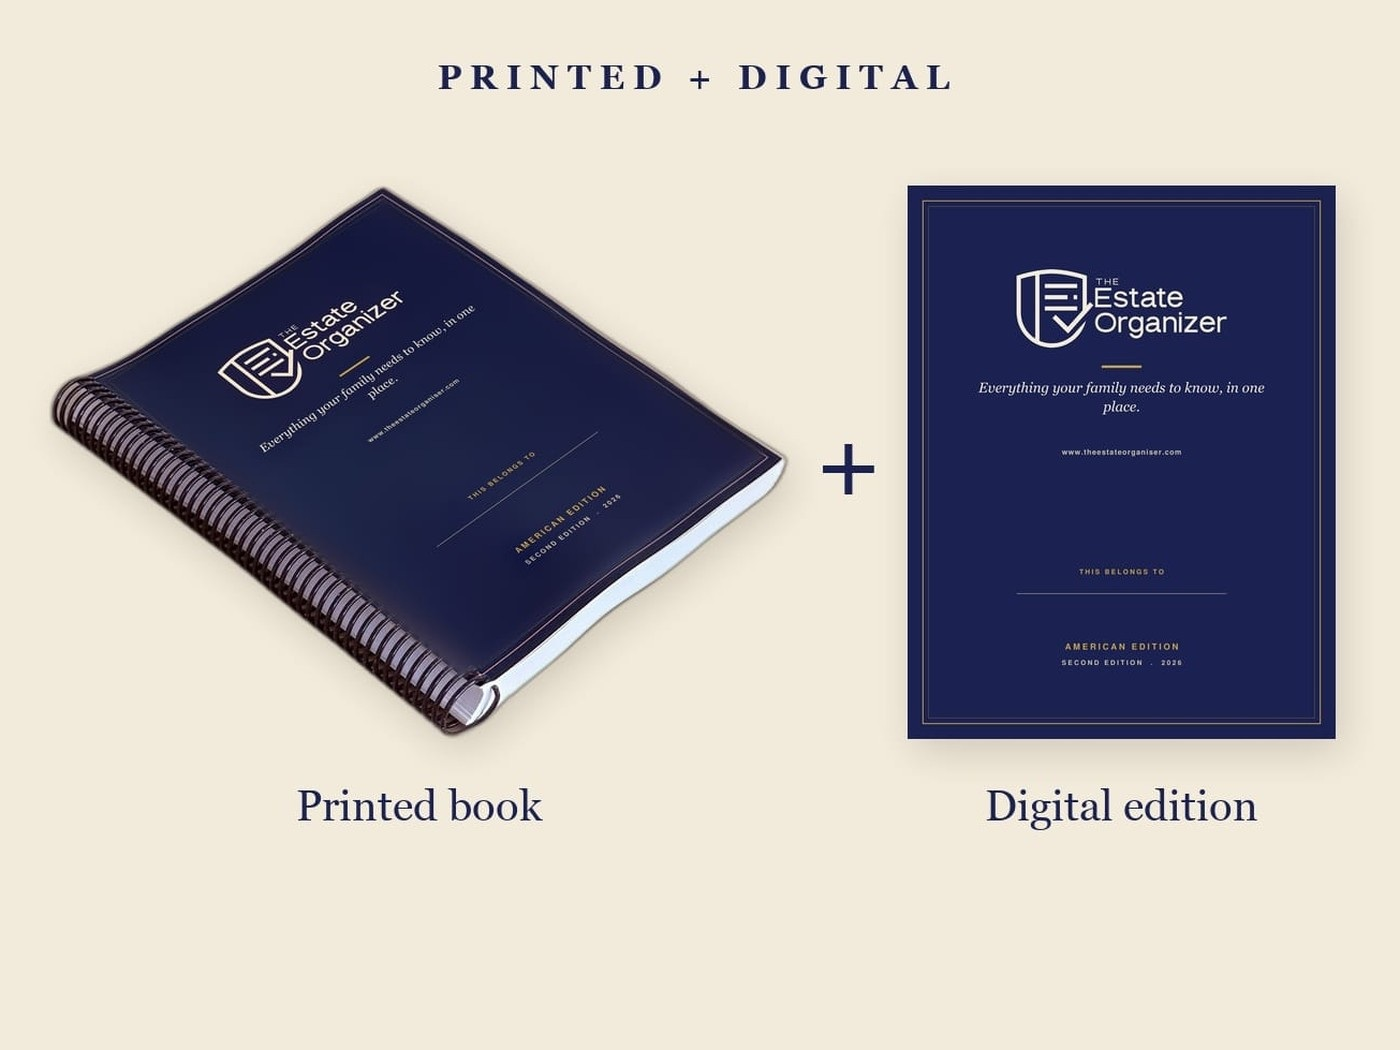
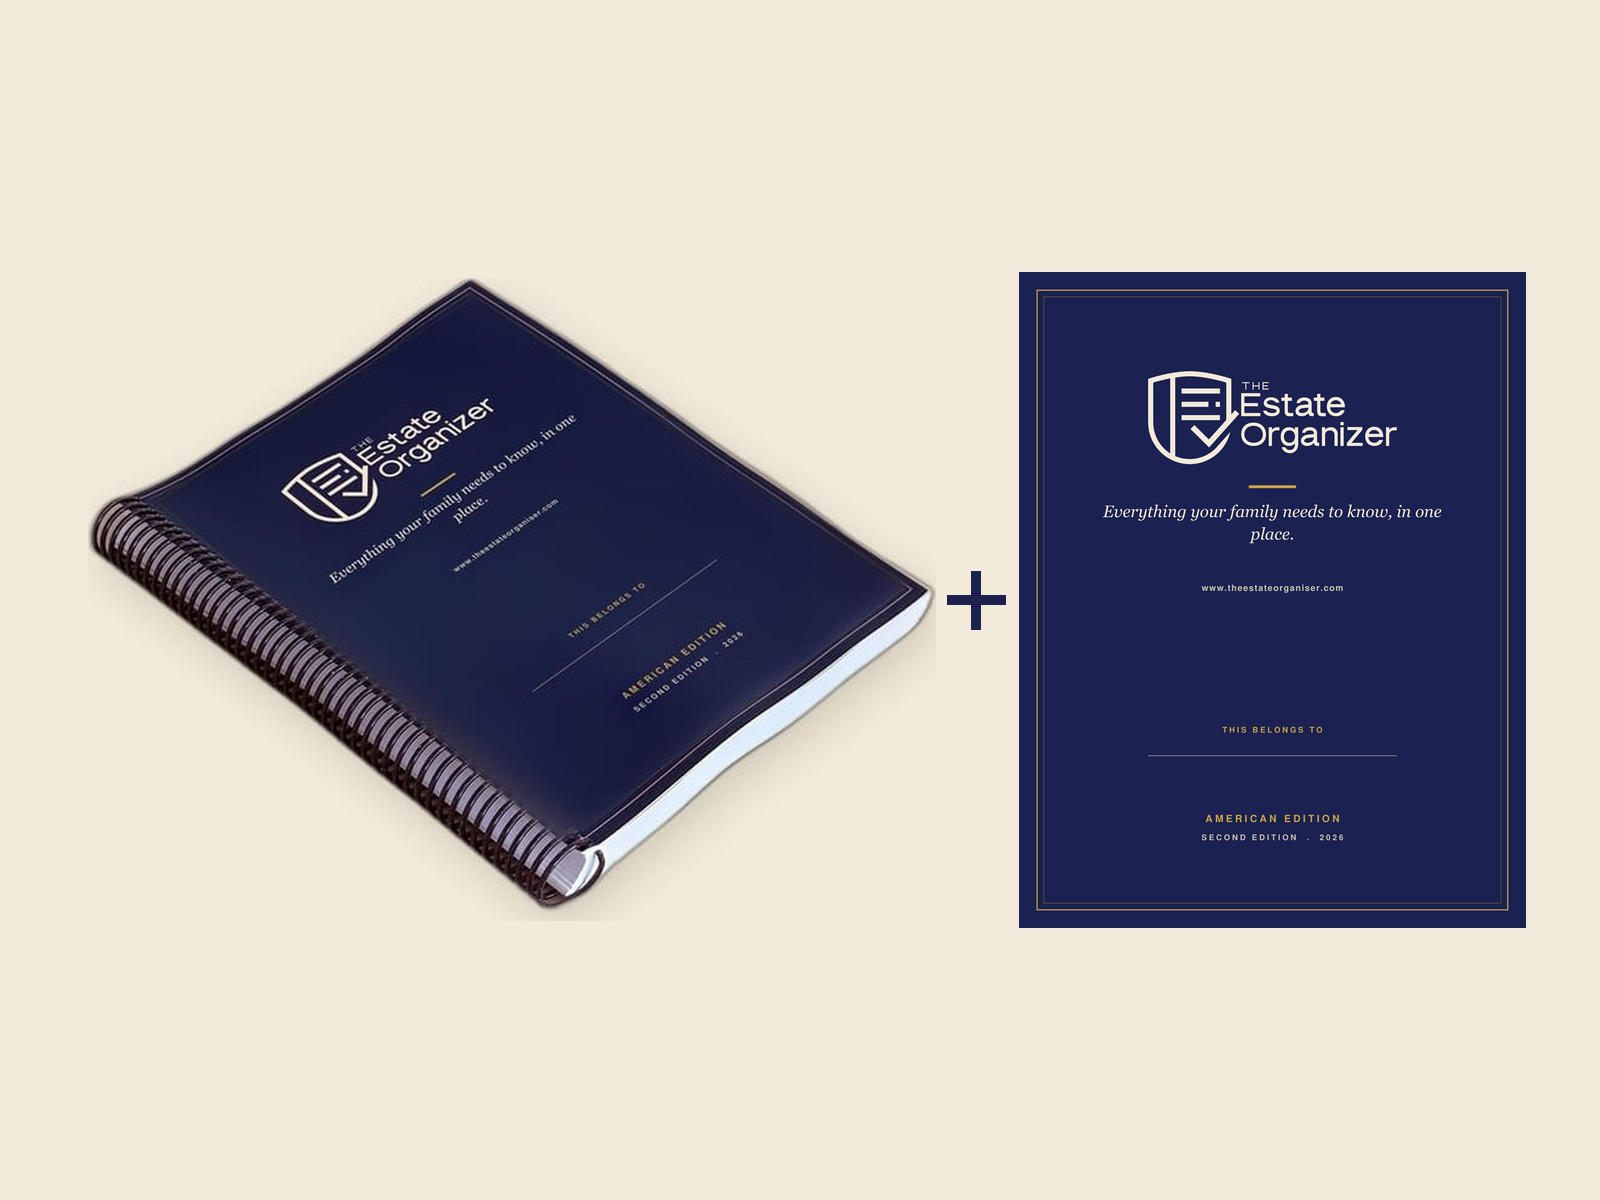
Format cards: drop the baked-in labels, rebuild from the print sources
The tier card images carried "DIGITAL ONLY", "PRINTED + DIGITAL", "Printed book"
and "Digital edition" burnt into the artwork. Drawn at 1400px and displayed at
about 341 CSS px, those letterforms landed around 10px and read as blurry. The
card already names the format underneath in HTML, so the labels are gone.

Rebuilt at 1600x1200 from the originals rather than upscaled: the cover comes off
the print cover spread PDF at 400 dpi, the coil book off the 3D render in Brand
Assets. Each site gets its own market cover. Composition and cream field are
unchanged, art vertically centred now the labels no longer take the top.

Build script: Estate Organiser/Assets/card-images/build-cards.py

diff --git a/the-estate-organizer/index.html b/the-estate-organizer/index.html
@@ -601,7 +601,7 @@ footer .disc,footer .legal{margin-top:20px;font-size:.8rem;line-height:1.6;color
     <p class="sub">Same book, same sections. Pick the format that suits how you like to work.</p>
     <div class="tiles book fmt-two" style="margin-top:34px">
       <div class="tile">
-        <img class="tileimg" src="/assets/card-digital.jpg" alt="The Estate Organizer digital edition">
+        <img class="tileimg" src="/assets/card-digital.jpg?v=2" alt="The Estate Organizer digital edition">
         <h4>Digital Edition</h4>
         <p class="t-price">$79 <span>USD</span></p>
         <p class="t-sub">Fillable PDF, instant download<br><span class="complete-tag" style="margin-top:10px">Complete on its own</span></p>
@@ -612,7 +612,7 @@ footer .disc,footer .legal{margin-top:20px;font-size:.8rem;line-height:1.6;color
         <p class="micro">Digital version only, no physical book</p>
       </div>
       <div class="tile featured">
-        <div class="tile-badge">Most people choose this</div><img class="tileimg" src="/assets/card-both.jpg" alt="The printed book and the digital edition together">
+        <div class="tile-badge">Most people choose this</div><img class="tileimg" src="/assets/card-both.jpg?v=2" alt="The printed book and the digital edition together">
         <h4>Printed + Digital</h4>
         <p class="t-price">$149 <span>USD</span></p>
         <p class="t-sub">Free shipping, digital copy instantly<br><span class="complete-tag" style="margin-top:10px">Complete on its own</span></p>

diff --git a/index.html b/index.html
@@ -456,7 +456,7 @@ footer .disc,footer .legal{margin-top:20px;font-size:.8rem;line-height:1.6;color
     </div>
     <div class="tiles book fmt-two">
       <div class="tile">
-        <img class="tileimg" src="/assets/card-digital.jpg" alt="The Estate Organizer digital edition">
+        <img class="tileimg" src="/assets/card-digital.jpg?v=2" alt="The Estate Organizer digital edition">
         <h4>Digital Edition</h4>
         <p class="t-price">$79 <span>USD</span></p>
         <p class="t-sub">Instant download</p>
@@ -467,7 +467,7 @@ footer .disc,footer .legal{margin-top:20px;font-size:.8rem;line-height:1.6;color
         <p class="micro">Digital version only, no physical book</p>
       </div>
       <div class="tile featured">
-        <div class="tile-badge">Most people choose this</div><img class="tileimg" src="/assets/card-both.jpg" alt="The printed book and the digital edition together">
+        <div class="tile-badge">Most people choose this</div><img class="tileimg" src="/assets/card-both.jpg?v=2" alt="The printed book and the digital edition together">
         <h4>Printed + Digital</h4>
         <p class="t-price">$149 <span>USD</span></p>
         <p class="t-sub">Free shipping, digital instantly</p>
